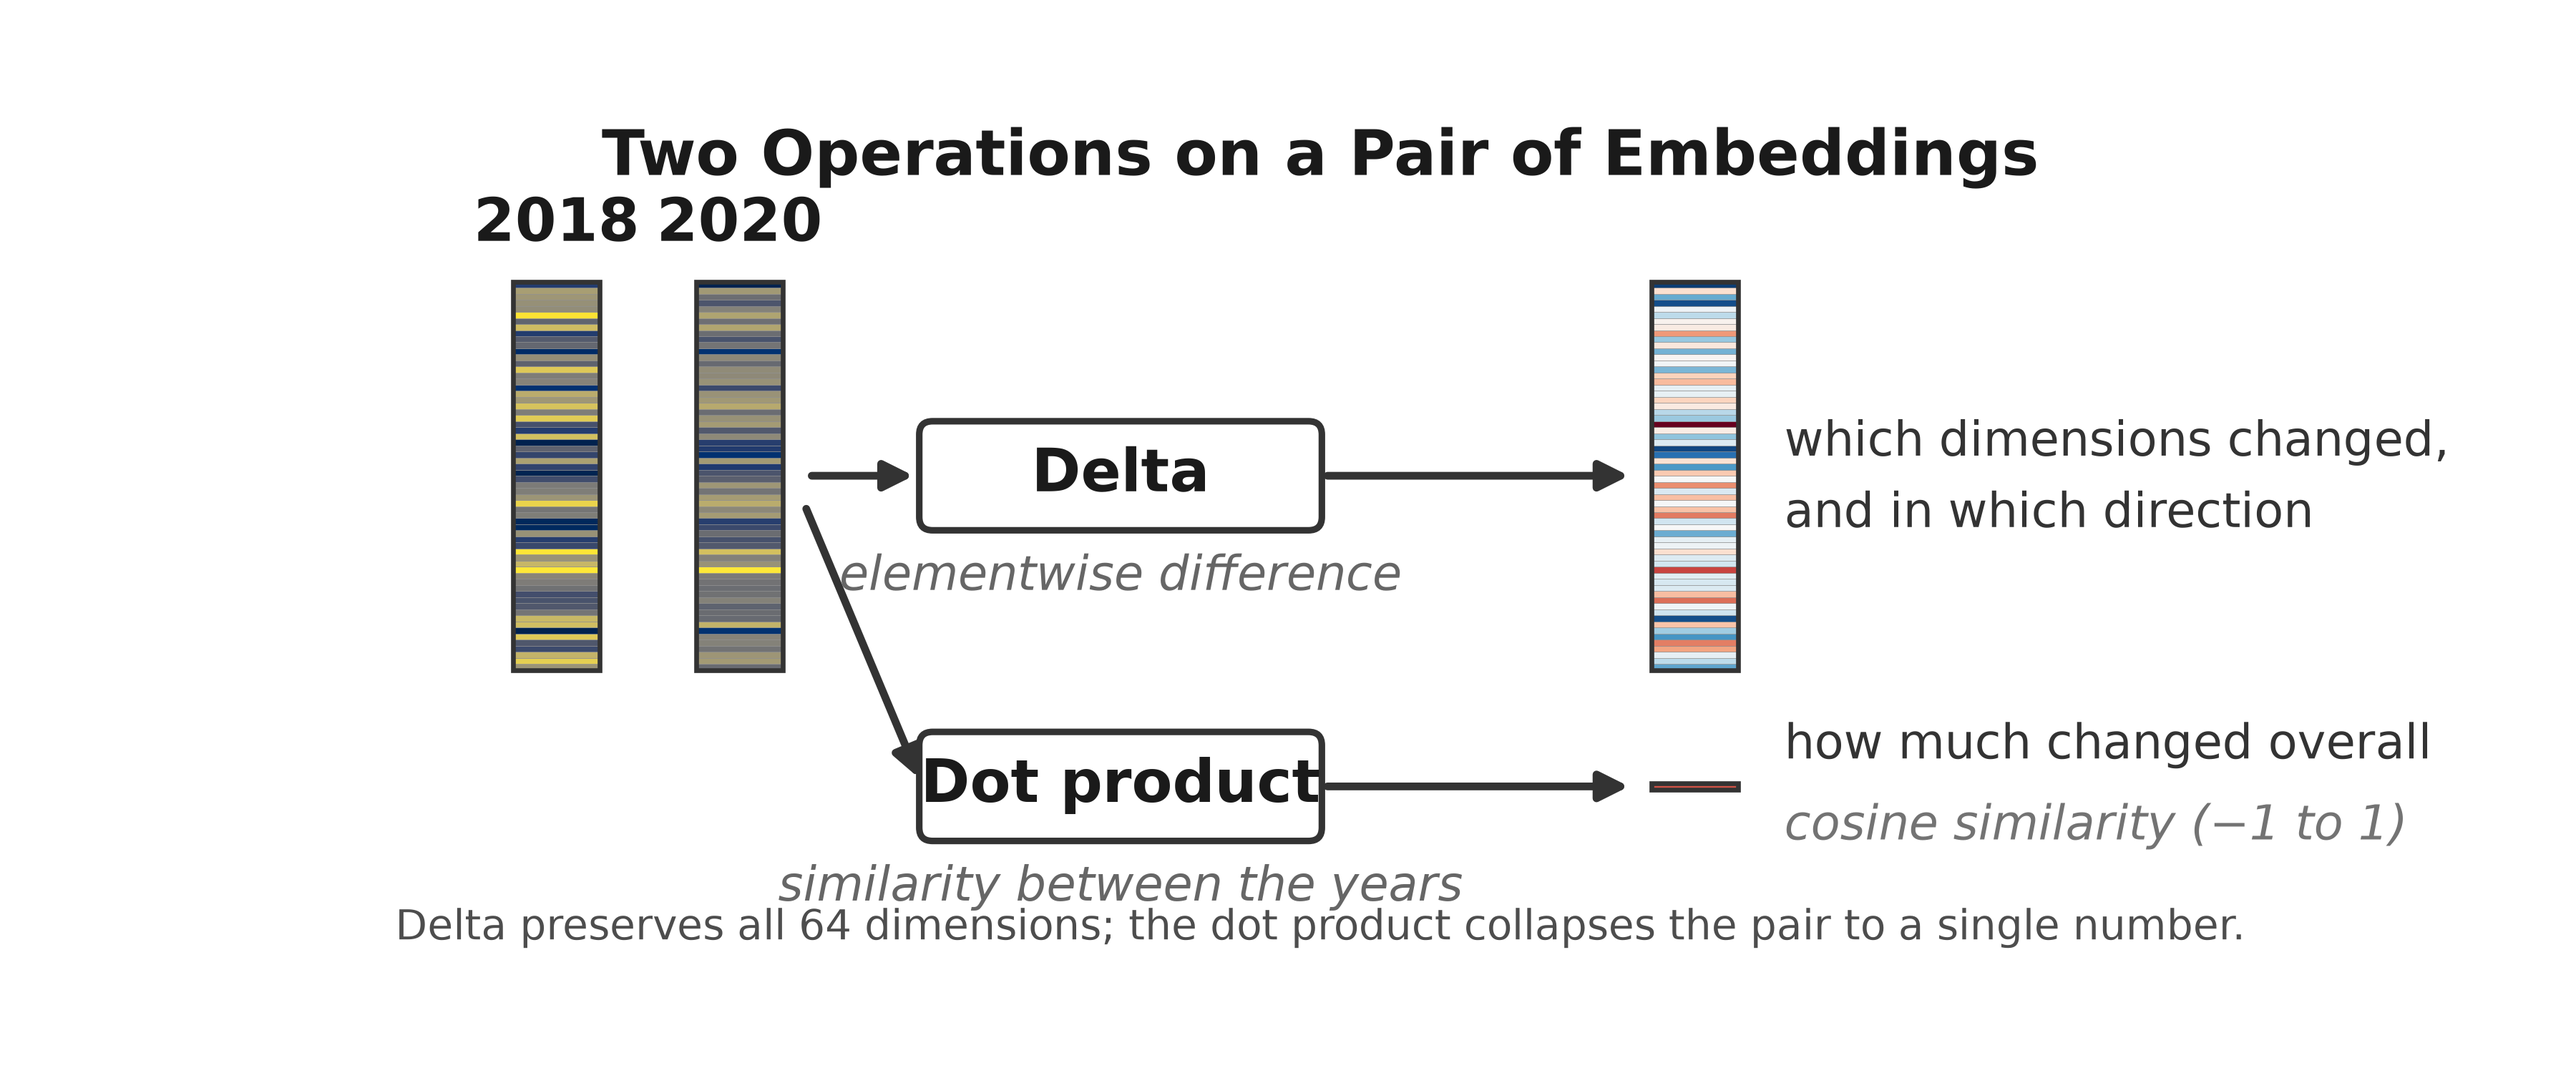
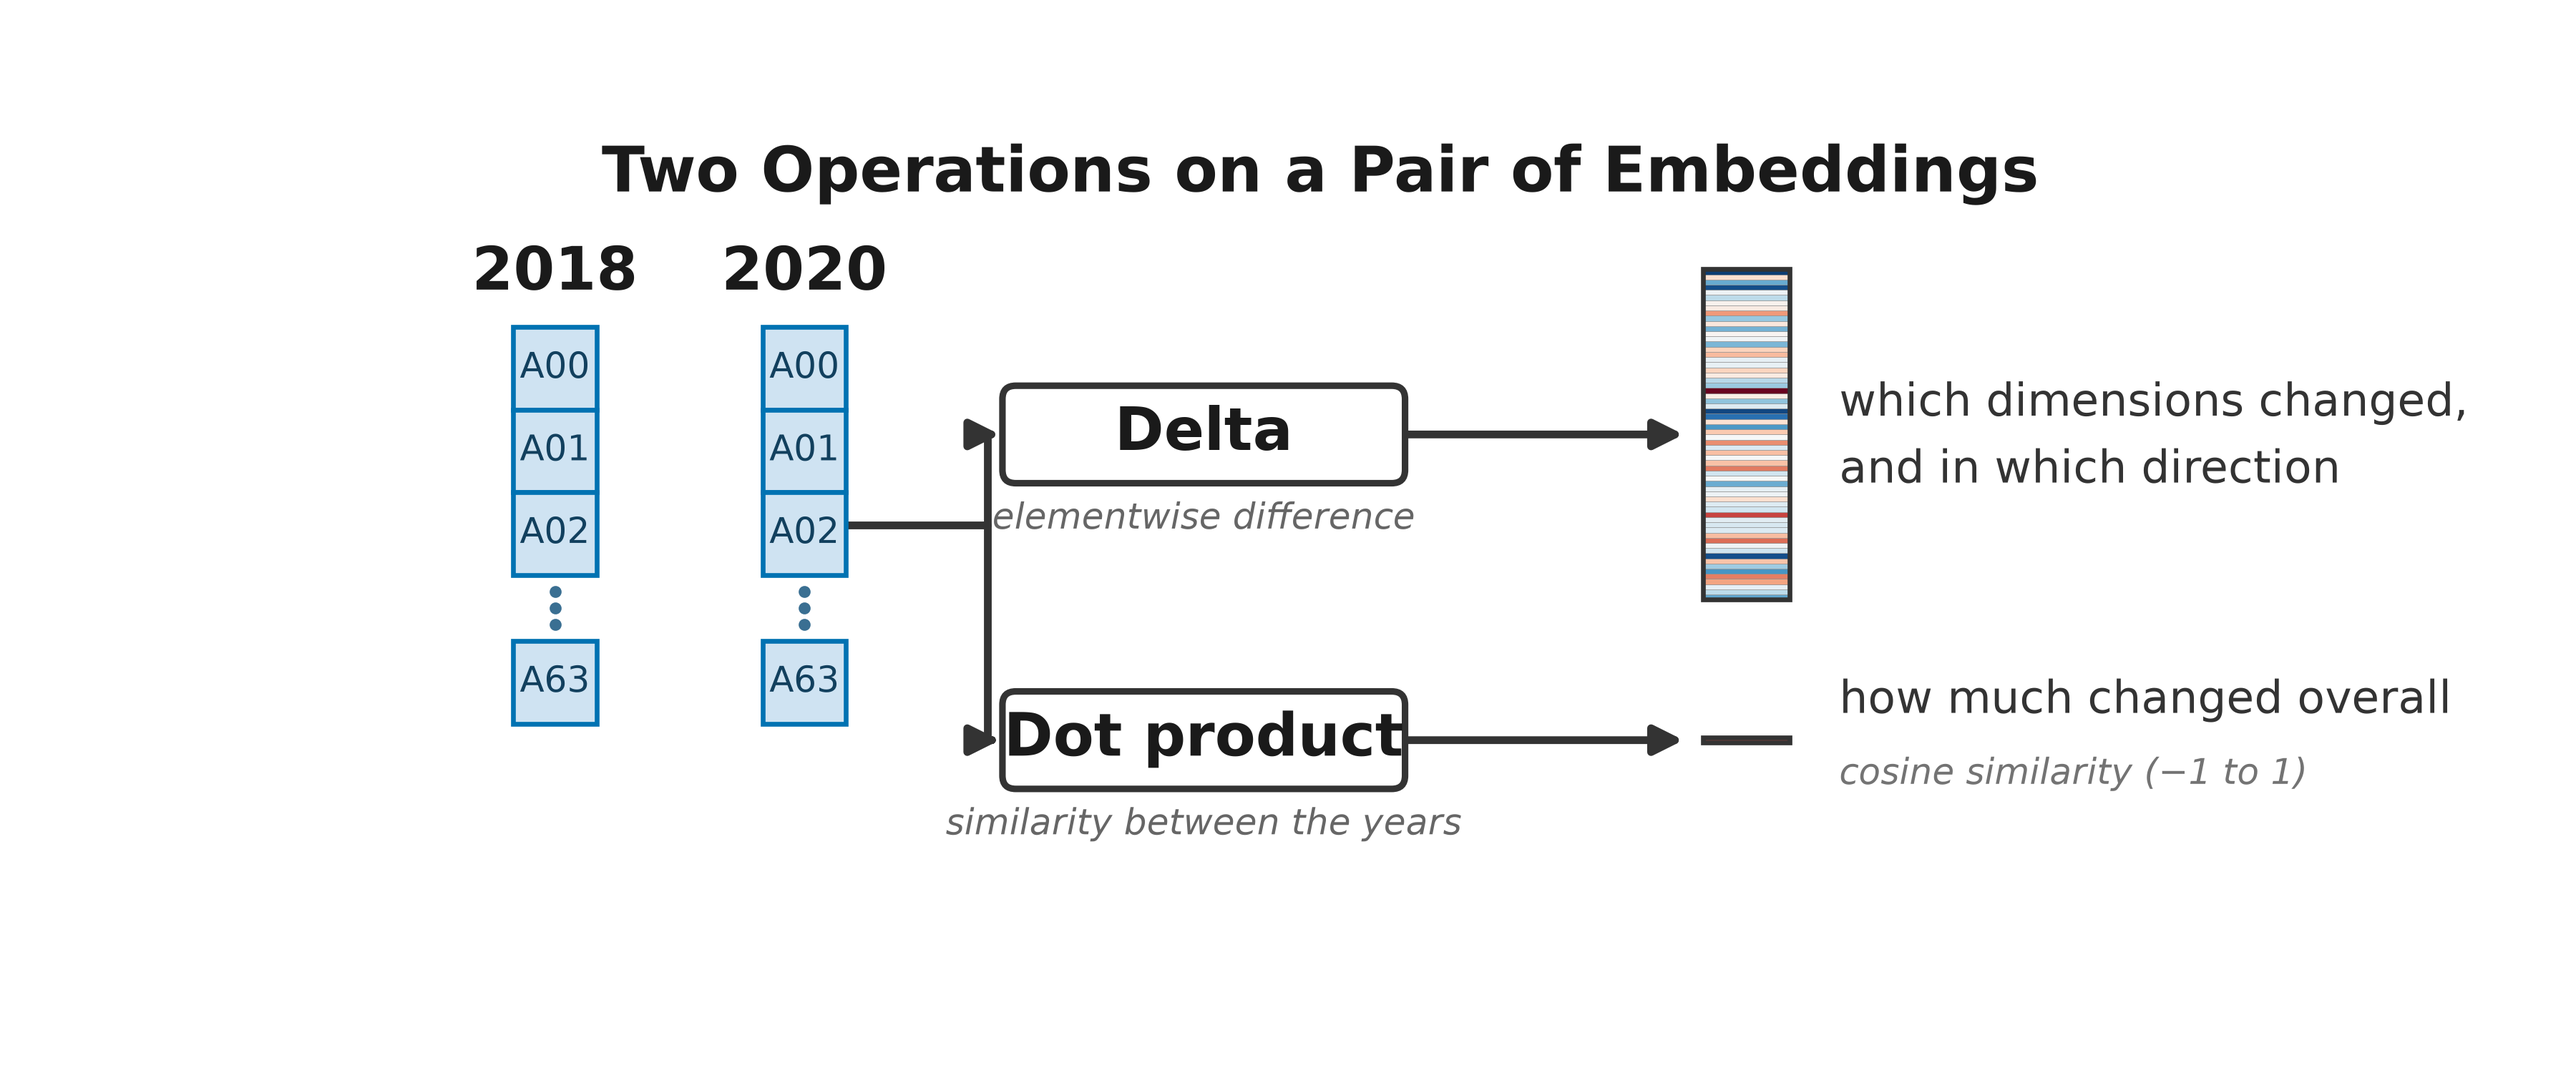
pres_15: redraw embeddings as labelled band-layer stacks
Per feedback: the two embeddings are now stacks of band squares (A00, A01, A02, ...,
A63) in a single-hue channel tint (the standard feature-stack glyph), spaced apart;
dropped the rainbow fill. Delta strip color kept. Fork arrows made orthogonal, node
descriptions shrunk, and the bottom sentence removed. Also index pres_16.

Changed region(s): [[0.1556, 0.1227, 0.9644, 0.8893]]

diff --git a/presentation/scripts/pres_15_embedding_ops.py b/presentation/scripts/pres_15_embedding_ops.py
@@ -1,23 +1,23 @@
 #!/usr/bin/env python3
 """pres_15_embedding_ops: the two operations on a pair of AlphaEarth embeddings.
 
-Teaching point is dimensionality. Two embeddings (2018, 2020), each a strip of 64 cells. Two
-operations branch right:
-  Delta        elementwise difference  -> a 64-cell strip   (all 64 dimensions preserved)
+Teaching point is dimensionality. Each embedding is a stack of 64 band layers (A00..A63), drawn as
+stacked squares with an ellipsis for the omitted middle bands, the standard "feature/channel stack"
+glyph. Two operations branch right:
+  Delta        elementwise difference   -> a 64-cell strip   (all 64 dimensions preserved)
   Dot product  similarity between years -> a single cell     (the pair collapses to one number)
 
-The 64-cell delta strip and the single dot-product cell are drawn at the SAME cell scale (identical
-cell width and per-cell height), so the 64-vs-1 size difference is visible at a glance rather than
-stated in a label. The single cell is NOT resized to fill space; that size gap is the argument.
+The 64-cell delta strip and the single dot-product cell are drawn at the SAME cell scale, so the
+64-vs-1 size difference is visible at a glance. The single cell is NOT resized to fill space.
 
 Unit norm / cosine: confirmed from the AlphaEarth paper (presentation/assets/alphaearth.pdf, Fig 1E):
 "A stack of 64 rasterized AEF layers forms an embedding field, and each individual vector maps to a
 coordinate on the unit sphere S63." Each 64-D embedding is unit length, so the dot product of two
 years is a cosine similarity in [-1, 1]; that range is labelled on the dot-product output.
 
-Cell fills are an ARBITRARY illustrative gradient (sequential for the year strips, diverging for the
-signed delta so direction reads as color). They are NOT real embedding values and must not be read
-as such.
+Colors: the embedding band layers use a single flat channel tint (illustrative structure, not values);
+the signed delta uses a colorblind-safe diverging map so direction reads as color. Neither is a real
+embedding value.
 
 Styling matches pres_03 / pres_11 (rounded FancyBboxPatch nodes, #333333 arrows, DejaVu font).
 Output (PNG only for the Google Slides deck): presentation/figures/pres_15_embedding_ops.png
@@ -30,7 +30,7 @@ matplotlib.use("Agg")
 import matplotlib.pyplot as plt
 import numpy as np
 from matplotlib.cm import ScalarMappable
-from matplotlib.colors import Normalize, TwoSlopeNorm
+from matplotlib.colors import TwoSlopeNorm
 from matplotlib.patches import FancyArrowPatch, FancyBboxPatch, Rectangle
 
 HERE = os.path.dirname(os.path.abspath(__file__))
@@ -38,26 +38,48 @@ ROOT = os.path.dirname(os.path.dirname(HERE))
 OUT = os.path.join(ROOT, "presentation", "figures")
 
 FIG_W, FIG_H = 12.0, 5.0
-LABEL_FS, BODY_FS, SUB_FS = 20, 16, 16       # operation/year labels 20 pt; annotations/subs 16 pt
+LABEL_FS, BODY_FS, SUB_FS = 20, 15, 12        # year/op labels 20; right annotations 15; node subs 12
 ARROW = "#333333"
 NODE_FILL, NODE_EDGE = "white", "#333333"
-FRAME = "#333333"                            # outer frame around a strip / the single cell
+FRAME = "#333333"
+EMB_FILL, EMB_EDGE = "#cfe3f2", "#0072B2"     # embedding-family blue (pres_11/pres_16)
 NCELL = 64
 
 # geometry (data units = inches; axes span 0..12 x 0..5)
-CW = 0.52                                     # cell width (also strip width)
-SH = 2.35                                     # strip height for 64 cells
-CH = SH / NCELL                               # single-cell height, shared by strip cells and dot cell
-IN_CY = 2.9                                   # vertical center of the input strips and the delta lane
-DOT_CY = 1.02                                 # vertical center of the dot-product lane
-IN_X = [1.15, 2.25]                           # x-left of the 2018 / 2020 input strips (gap fits 20 pt labels)
-NODE_CX, NODE_H = 4.8, 0.62
-NODE_W = 1.95                                  # recomputed in main() to fit the widest label + padding
-OUT_X = 7.99                                  # x-left of both outputs (same column: strip over cell)
+SQ = 0.5                                       # embedding band-square side
+ELL = 0.40                                     # ellipsis gap in the band stack
+STACK_CX = [1.4, 2.9]                          # x-centers of the 2018 / 2020 stacks (well separated)
+STACK_CY = 2.6
+CW = 0.52                                      # delta-strip / dot-cell width
+SH = 2.0                                       # delta-strip height (64 cells)
+CH = SH / NCELL                                # single-cell height, shared by strip cells and dot cell
+DELTA_CY, DOT_CY = 3.15, 1.30                  # upper (delta) and lower (dot) lane centers
+NODE_CX, NODE_H = 5.3, 0.55
+NODE_W = 2.0                                    # recomputed in main() to fit the widest label
+FORK_X = 4.0
+OUT_X = 8.3                                     # x-left of both outputs (same column: strip over cell)
+
+
+def _stack(ax, cx, cy):
+    """Draw an embedding as a stack of band squares: A00, A01, A02, ellipsis, A63."""
+    top_labels = ["A00", "A01", "A02"]
+    total = len(top_labels) * SQ + ELL + SQ
+    y = cy + total / 2
+    for lab in top_labels:
+        ax.add_patch(Rectangle((cx - SQ / 2, y - SQ), SQ, SQ, facecolor=EMB_FILL,
+                               edgecolor=EMB_EDGE, linewidth=1.6, zorder=3))
+        ax.text(cx, y - SQ / 2, lab, ha="center", va="center", fontsize=12, color="#12405e", zorder=4)
+        y -= SQ
+    for k in (-1, 0, 1):                        # vertical ellipsis for the omitted bands
+        ax.plot([cx], [y - ELL / 2 + k * 0.10], marker="o", ms=3.0, color="#3a6f92", zorder=4)
+    y -= ELL
+    ax.add_patch(Rectangle((cx - SQ / 2, y - SQ), SQ, SQ, facecolor=EMB_FILL, edgecolor=EMB_EDGE,
+                           linewidth=1.6, zorder=3))
+    ax.text(cx, y - SQ / 2, "A63", ha="center", va="center", fontsize=12, color="#12405e", zorder=4)
+    return cy + total / 2                       # top y
 
 
 def _cells(ax, x_left, cy, values, cmap, norm):
-    """Draw a vertical strip of len(values) cells, bottom-to-top, plus an outer frame."""
     n = len(values)
     y0 = cy - n * CH / 2
     sm = ScalarMappable(norm=norm, cmap=cmap)
@@ -74,13 +96,17 @@ def _node(ax, cx, cy, name, sub):
                                 edgecolor=NODE_EDGE, linewidth=2.2, zorder=5))
     ax.text(cx, cy, name, ha="center", va="center", fontsize=LABEL_FS, fontweight="bold",
             color="#1a1a1a", zorder=6)
-    ax.text(cx, cy - NODE_H / 2 - 0.16, sub, ha="center", va="top", fontsize=SUB_FS,
+    ax.text(cx, cy - NODE_H / 2 - 0.13, sub, ha="center", va="top", fontsize=SUB_FS,
             color="0.4", style="italic", zorder=6)
+
+
+def _line(ax, xs, ys):
+    ax.plot(xs, ys, color=ARROW, lw=2.6, zorder=2, solid_capstyle="round", solid_joinstyle="round")
 
 
 def _arrow(ax, p0, p1):
     ax.add_patch(FancyArrowPatch(p0, p1, arrowstyle="-|>", mutation_scale=20, color=ARROW,
-                                 linewidth=2.6, shrinkA=3, shrinkB=3, zorder=2))
+                                 linewidth=2.6, shrinkA=0, shrinkB=2, zorder=2))
 
 
 def main():
@@ -88,16 +114,11 @@ def main():
     print('  "... each individual vector maps to a coordinate on the unit sphere S63."')
     print("  -> embeddings are unit length; dot product = cosine similarity in [-1, 1]. Range labelled.")
 
-    # illustrative-only values (NOT real embeddings). fixed seed for reproducibility.
     rng = np.random.default_rng(7)
     a = rng.uniform(-1.0, 1.0, NCELL)
-    b = a + rng.normal(0.0, 0.45, NCELL)                 # 2020 resembles 2018 (correlated), illustrative
-    delta = b - a                                        # signed elementwise difference
-
-    seq = plt.get_cmap("cividis")                        # colorblind-safe sequential, for year strips
-    div = plt.get_cmap("RdBu_r")                         # colorblind-safe diverging, for signed delta
-    n_a = Normalize(a.min(), a.max())
-    n_b = Normalize(b.min(), b.max())
+    b = a + rng.normal(0.0, 0.45, NCELL)
+    delta = b - a                                        # signed elementwise difference, illustrative
+    div = plt.get_cmap("RdBu_r")
     dmax = float(np.max(np.abs(delta)))
     n_d = TwoSlopeNorm(vmin=-dmax, vcenter=0.0, vmax=dmax)
 
@@ -106,7 +127,6 @@ def main():
     ax.set_ylim(0, FIG_H)
     ax.axis("off")
 
-    # size the operation boxes to the widest label so 20 pt text never touches the border
     global NODE_W
     fig.canvas.draw()
     r = fig.canvas.get_renderer()
@@ -115,48 +135,46 @@ def main():
         t = fig.text(0, 0, name, fontsize=LABEL_FS, fontweight="bold")
         widest = max(widest, t.get_window_extent(r).width / fig.dpi)
         t.remove()
-    NODE_W = widest + 0.5                                 # 0.25 in padding each side
+    NODE_W = widest + 0.5
 
-    # title (Title Case) + caption, per the presentation-figure convention
-    ax.text(FIG_W / 2, 4.82, "Two Operations on a Pair of Embeddings", ha="center", va="center",
+    ax.text(FIG_W / 2, 4.72, "Two Operations on a Pair of Embeddings", ha="center", va="center",
             fontsize=LABEL_FS + 1, fontweight="bold", color="#1a1a1a")
 
-    # inputs: two 64-cell strips
-    _cells(ax, IN_X[0], IN_CY, a, seq, n_a)
-    _cells(ax, IN_X[1], IN_CY, b, seq, n_b)
-    top = IN_CY + SH / 2
-    ax.text(IN_X[0] + CW / 2, top + 0.16, "2018", ha="center", va="bottom", fontsize=LABEL_FS,
-            fontweight="bold", color="#1a1a1a")
-    ax.text(IN_X[1] + CW / 2, top + 0.16, "2020", ha="center", va="bottom", fontsize=LABEL_FS,
-            fontweight="bold", color="#1a1a1a")
+    # inputs: two embeddings as band-layer stacks
+    top = _stack(ax, STACK_CX[0], STACK_CY)
+    _stack(ax, STACK_CX[1], STACK_CY)
+    for cx, yr in zip(STACK_CX, ("2018", "2020")):
+        ax.text(cx, top + 0.14, yr, ha="center", va="bottom", fontsize=LABEL_FS, fontweight="bold",
+                color="#1a1a1a")
 
     # operation nodes
-    _node(ax, NODE_CX, IN_CY, "Delta", "elementwise difference")
+    _node(ax, NODE_CX, DELTA_CY, "Delta", "elementwise difference")
     _node(ax, NODE_CX, DOT_CY, "Dot product", "similarity between the years")
 
-    # arrows: the input pair feeds both operations
-    src_x = IN_X[1] + CW + 0.12
-    _arrow(ax, (src_x, IN_CY), (NODE_CX - NODE_W / 2, IN_CY))
-    _arrow(ax, (src_x, IN_CY - 0.15), (NODE_CX - NODE_W / 2, DOT_CY))
-    # arrows: operation -> output
-    _arrow(ax, (NODE_CX + NODE_W / 2, IN_CY), (OUT_X - 0.08, IN_CY))
-    _arrow(ax, (NODE_CX + NODE_W / 2, DOT_CY), (OUT_X - 0.08, DOT_CY))
+    # orthogonal fork: the pair feeds both operations
+    node_l = NODE_CX - NODE_W / 2
+    _line(ax, [STACK_CX[1] + SQ / 2, FORK_X], [STACK_CY, STACK_CY])   # trunk from the pair
+    _line(ax, [FORK_X, FORK_X], [DOT_CY, DELTA_CY])                   # fork riser
+    _arrow(ax, (FORK_X, DELTA_CY), (node_l, DELTA_CY))
+    _arrow(ax, (FORK_X, DOT_CY), (node_l, DOT_CY))
+    # operation -> output
+    node_r = NODE_CX + NODE_W / 2
+    _arrow(ax, (node_r, DELTA_CY), (OUT_X - 0.08, DELTA_CY))
+    _arrow(ax, (node_r, DOT_CY), (OUT_X - 0.08, DOT_CY))
 
-    # outputs, drawn at the SAME cell scale: 64-cell delta strip over a single dot-product cell
-    _cells(ax, OUT_X, IN_CY, delta, div, n_d)
+    # outputs at the same cell scale: 64-cell delta strip over a single dot-product cell
+    _cells(ax, OUT_X, DELTA_CY, delta, div, n_d)
     ax.add_patch(Rectangle((OUT_X, DOT_CY - CH / 2), CW, CH, facecolor=div(0.82),
                            edgecolor=FRAME, linewidth=1.6, zorder=4))
 
-    # per-operation annotations, to the right of each output
-    ax.text(OUT_X + CW + 0.28, IN_CY, "which dimensions changed,\nand in which direction",
-            ha="left", va="center", fontsize=BODY_FS, color="0.2", linespacing=1.4)
-    ax.text(OUT_X + CW + 0.28, DOT_CY + 0.10, "how much changed overall", ha="left", va="bottom",
+    # per-operation annotations, right of each output
+    ax_x = OUT_X + CW + 0.3
+    ax.text(ax_x, DELTA_CY, "which dimensions changed,\nand in which direction", ha="left",
+            va="center", fontsize=BODY_FS, color="0.2", linespacing=1.4)
+    ax.text(ax_x, DOT_CY + 0.10, "how much changed overall", ha="left", va="bottom",
             fontsize=BODY_FS, color="0.2")
-    ax.text(OUT_X + CW + 0.28, DOT_CY - 0.10, "cosine similarity (−1 to 1)", ha="left", va="top",
+    ax.text(ax_x, DOT_CY - 0.10, "cosine similarity (−1 to 1)", ha="left", va="top",
             fontsize=SUB_FS, color="0.45", style="italic")
-
-    ax.text(FIG_W / 2, 0.16, "Delta preserves all 64 dimensions; the dot product collapses the pair "
-            "to a single number.", ha="center", va="center", fontsize=BODY_FS - 2, color="0.3")
 
     os.makedirs(OUT, exist_ok=True)
     fig.savefig(f"{OUT}/pres_15_embedding_ops.png", dpi=300)

diff --git a/presentation/figures/FIGURES.md b/presentation/figures/FIGURES.md
@@ -73,13 +73,23 @@ is not stable):
 
 ### Figure 15 — Two operations on a pair of embeddings
 
-Dimensionality teaching figure. Two embeddings (2018, 2020) as 64-cell strips; Delta (elementwise
-difference) preserves all 64 cells, the dot product collapses the pair to a single cell, drawn at the
-same cell scale so the 64-vs-1 gap is visible at a glance. Cell fills are illustrative, not real
-values. Dot product is a cosine similarity in [−1, 1] (embeddings are unit-norm per the AlphaEarth
-paper, Fig 1E).
+Dimensionality teaching figure. Two embeddings (2018, 2020) drawn as stacks of band layers
+(A00, A01, A02, ⋮, A63); Delta (elementwise difference) preserves all 64 dimensions as a 64-cell
+strip, the dot product collapses the pair to a single cell, drawn at the same cell scale so the
+64-vs-1 gap is visible at a glance. Fills are illustrative, not real values. Dot product is a cosine
+similarity in [−1, 1] (embeddings are unit-norm per the AlphaEarth paper, Fig 1E).
 
 ![Figure 15](pres_15_embedding_ops.png)
+
+### Figure 16 — The spectral baseline is a matched control
+
+Makes the experimental control explicit: both feature families start from the same three sensors
+(Sentinel-2, Landsat 8, Sentinel-1) on a shared bus, fork into AlphaEarth embeddings (64 numbers/pixel)
+and spectral composites (50 bands), then remerge into one Random Forest. Fork annotation "same inputs,
+different representation" in the pres_11 control style. Zoom on the feature fork that pres_11 shows at
+low detail; unlike pres_11 it puts the sensors upstream of both branches.
+
+![Figure 16](pres_16_spectral_baseline.png)
 
 ## Supplemental figures
 
